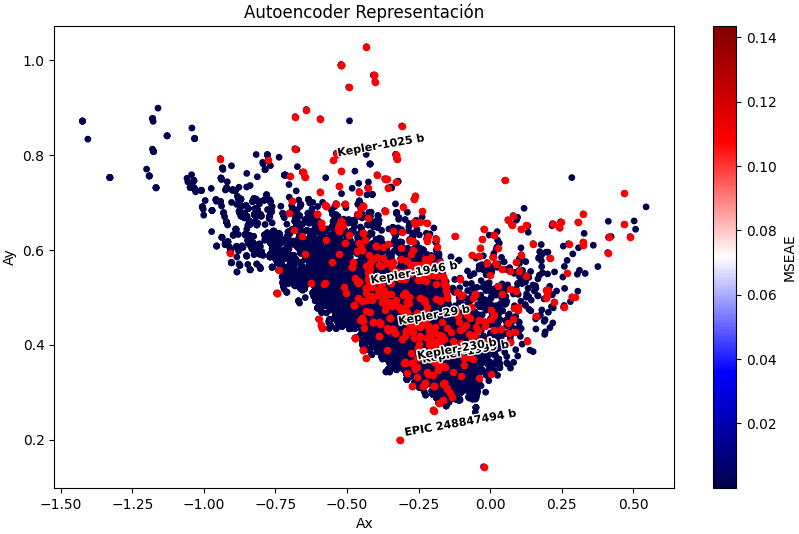
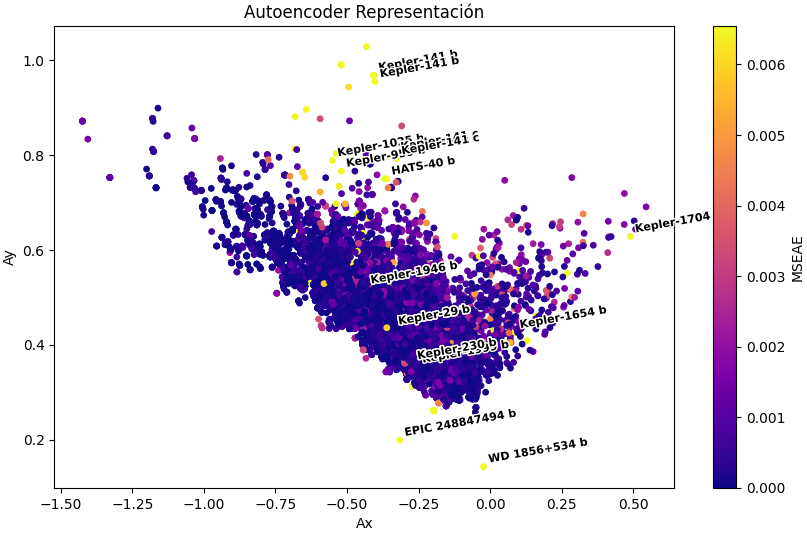
Se agregan descripciones a los resultados, se crean figuras sobre los resultados generales.

diff --git a/DeteccionAnomalias_SistemasPlanetarios/Resultados.md b/DeteccionAnomalias_SistemasPlanetarios/Resultados.md
@@ -2,68 +2,103 @@
 
 # Detección de anomalías de sistemas planetarios
 
-¡Hola! Bienvenido a mi portafolio de proyectos. En este espacio encontrarás algunos trabajos que he realizado en materias relacionadas a ciencias de datos, visión computacional, aprendizaje automático, entre otros.
 
 ---
 
 - [Detección de anomalías de sistemas planetarios](#detección-de-anomalías-de-sistemas-planetarios)
+  - [Introducción](#introducción)
   - [Preprocesamiento](#preprocesamiento)
   - [Análisis exploratorio](#análisis-exploratorio)
-    - [Histogramas principales](#histogramas-principales)
-    - [Histogramas específicos](#histogramas-específicos)
+    - [Histogramas](#histogramas)
     - [Gráficas de dispersión](#gráficas-de-dispersión)
   - [Selección de parámetros](#selección-de-parámetros)
     - [IF y LOF](#if-y-lof)
     - [Autodecodificador](#autodecodificador)
   - [Resultados](#resultados)
     - [Autodecodificador](#autodecodificador-1)
+    - [IF](#if)
+    - [LOF](#lof)
+    - [Anomalías detectadas](#anomalías-detectadas)
   - [Conclusiones](#conclusiones)
 
 ---
 
+## Introducción
+Se importan el conjunto de datos proveniente de [https://exoplanetarchive.ipac.caltech.edu/docs/data.html ](https://exoplanetarchive.ipac.caltech.edu/docs/data.html). En este trabajo se realizará una detección de anomalías en las mediciones de los planetas mediante algoritmos de aprendizaje automático, entre los cuales se encuentran: 
+
+1. Isolation Forest (IF):
+2. Local Outlier Factor (LOF):
+3. Autodecodificadores: 
+
+
+
+
+
+
 ## Preprocesamiento
+
+En dicha liga nos dirigimos a "planetary systems" y se filtran aquellos datos que no cuenten con información de: 
+
+1. Periodo orbital (pl_orbper)
+2. Radio planetario (pl_rade)
+3. Excentricidad (pl_orbeccen)
+4. Temperatura en equilibrio (pl_eqt)
+5. Masa estelar (st_mass)
+6. Gravedad estelar en superficie (st_logg)
+7. Distancia a la estrella (sy_dist)
+
+Se eliminan aquellas columnas que cuenten con valores nulos y se aplican normalización a los datos para evitar que alguna variable sea dominante respecto a las demás debido a las diferentes escalas. Después de todas estas consideraciones nuestro conjunto de datos consta de 14,037 filas y 7 columnas ya antes descritas. 
+
 
 ## Análisis exploratorio
 
-### Histogramas principales
+### Histogramas
+
+Para empezar a trabajar se realizan histogramas de cada una de las variables. En lo que respecta a la masa estelar, gravedad estelar en superficie y distancia a la estrella se notan distribuciones semejantes a la normal, o en dado caso con un cierto sesgo a la izquierda. 
 
 | ![](Imagenes/Histogramas/histograma_st_mass.png) | ![](Imagenes/Histogramas/histograma_st_logg.png) |
 | ------------------------------------------------ | ------------------------------------------------ |
-| (a)                                              | (b)                                              |
+| (a)  Masa estelar                                            | (b) Gravedad estelar en superficie                                              |
 
 | ![](Imagenes/Histogramas/histograma_pl_eqt.png) | ![](Imagenes/Histogramas/histograma_sy_dist.png) |
 | ----------------------------------------------- | ------------------------------------------------ |
-| (c)                                             | (d)                                              |
+| (c) Temperatura de equilibrio                                          | (d) Distancia a la estrella                                            |
 
 ---
 
-Las siguientes 3 figuras muestran una distribución rara que se revisará más a detalle.
+Por otro lado, en las siguientes figuras se muestran el resto de las variables, donde se nota claramente que hay exoplanetas que se alejan mucho del promedio, ya que cuentan con valores significativamente mayores si los comparas con el resto de los datos. A continuación se realizarán gráficos de dispersión para ver mas a detalle estas diferencias. 
 
-### Histogramas específicos
+
 
 | ![](Imagenes/Histogramas/histograma_pl_orbeccen.png) | ![](Imagenes/Histogramas/histograma_pl_orbper.png) |
 | ---------------------------------------------------- | -------------------------------------------------- |
-| (a)                                                  | (b)                                                |
+| (a) Excentricidad                                          | (b)Periodo orbital                                           |
 
 |   | ![](Imagenes/Histogramas/histograma_pl_rade.png) |   |
 | - | ------------------------------------------------ | - |
-|   | (c)                                              |   |
+|   | (c) Radio planetario                                         |   |
 
 ---
 
 ### Gráficas de dispersión
+Para tener mejor visualización de los variables restantes se opta por usar gráficas de dispersión. En ella los índices se muestran sobre el eje x mientras que en las abscisas indicamos el valor de la variable a utilizar. Seleccionamos un umbral donde se ubiquen el 95% de los datos y a partir de ellos iremos identificando exoplanetas fuera de lo común. 
+
+
 
 | ![](Imagenes/Dispersion/dispersion_pl_orbper.png_general.png) | ![](Imagenes/Dispersion/dispersion_pl_orbper.png) |
 | ------------------------------------------------------------- | ------------------------------------------------- |
-| (a)                                                           | (b)                                               |
+| (a) Periodo Orbital                                                     | (b)  Explanetas fuera del umbral                                            |
 
 | ![](Imagenes/Dispersion/dispersion_pl_rade.png_general.png) | ![](Imagenes/Dispersion/dispersion_pl_rade.png) |
 | ----------------------------------------------------------- | ----------------------------------------------- |
-| (c)                                                         | (d)                                             |
+| (c) Radio Planetario                                                    | (d) Exoplanetas fuera del umbral                                          |
 
 | ![](Imagenes/Dispersion/dispersion_pl_orbeccen.png_general.png) | ![](Imagenes/Dispersion/dispersion_pl_orbeccen.png) |
 | --------------------------------------------------------------- | --------------------------------------------------- |
-| (e)                                                             | (f)                                                 |
+| (e)   
+Excentrecidad                                                          | (f) Exoplanteas fuera del umbral                                                |
+
+En lo que respecta al periodo orbital se muestra que el exoplaneta EPIC 248847494 b tiene el valor más alto registrado, consultando el dataset corresponde a un periodo orbital de 10 años. Esto resulta relevante debido a que los métodos de observación requieren que el exoplaneta realice varios giros a la orbita para ser detectado, por lo que periodos largos necesitarían un mayor tiempo de seguimiento. 
 
 ---
 
@@ -77,6 +112,7 @@ Para detectar las anomalías se decide trabajar con los algoritmos Isolation For
 | -------------------------------------------------------- | ---------------------------------------------------------- |
 | (a)                                                      | (b)                                                        |
 
+
 ---
 
 ### Autodecodificador
@@ -88,7 +124,7 @@ Se usa MSE como función de pérdida. El espacio latente lo podemos emplear para
 * 100 épocas y un tamaño de batch de 32.
 
 <p align="center">
-  <img src="Imagenes/SeleccionParametros/Autoencoder.png" width="50%">
+  <img src="Imagenes/SeleccionParametros/Autoencoder.jpg" width="50%">
 </p>
 
 ---
@@ -112,4 +148,43 @@ EPIC 248847494 b aparece nuevamente.
 
 ---
 
+### IF
+| ![](Imagenes/ReduccionDimensional/Autoencoder_Test_scoreIF.png) | ![](Imagenes/ReduccionDimensional/PCA_Test_scoreIF.png) |
+| ------------------------------------------------------------- | ----------------------------------------------------------- |
+| (a)                                                           | (b)                                                         |
+
+
+### LOF
+
+| ![](Imagenes/ReduccionDimensional/Autoencoder_Test_scoreLOF.png) | ![](Imagenes/ReduccionDimensional/PCA_Test_scoreLOF.png) |
+| ------------------------------------------------------------- | ----------------------------------------------------------- |
+| (a)                                                           | (b)                                                         |
+
+
+### Anomalías detectadas
+
+A continuación se muestra una gráfica de barras con el conteo de las anomalias por cada método empleado. Podemos observar que IF fue el sensible, mientras que el menor conteo tuvo fue LOF. El autodecodificador se quedo en un rango intermedio. 
+
+<p align="center">
+  <img src="Imagenes/ReduccionDimensional/AnomaliasDetectadas.png" width="50%">
+</p>
+
+Los 3 métodos detectaron tuvieron coincidencia en 79 planetas, entre los cuales se encuentran: Kepler-39 b, KELT-9 b, EPIC 248847494 b, KIC 9663113 b,HD 224018 d, Kepler-141 c, entre otros. A continuación se muestran las anomalias comunes de los 3 métodos represetnados en los espacios bidimensionales de PCA y el autodecodificador. 
+
+| ![](Imagenes/ReduccionDimensional/PCA_Comunes.png) | ![](Imagenes/ReduccionDimensional/Autoencoder_Comunes.png) |
+| ------------------------------------------------------------- | ----------------------------------------------------------- |
+| (a)                                                           | (b)                                                         |
+
 ## Conclusiones
+Los análisis exploratorios nos pueden ayudar a darnos una idea si algún
+dato se encuentra fuera de lo común.
+• Se pueden emplear los autocodificadores para detectar anomalías si nos
+enfocamos a analizar que tan bien se reconstruyen los datos. Mayores
+errores podría indicarnos la presencia de un dato extraño.
+• Escoger la arquitectura lleva su reto, ya que no parece existir una “receta”
+que nos indique como armar un modelo. Se recomienda primero revisar en la
+literatura si existen redes empleadas para el fenómeno que se este
+analizando y no empezar desde cero.
+• Los algoritmos de reducción de dimensionalidad parecen ser muy atractivos
+para representar datos pero siempre hay que tener en consideración que la
+salida de estos son una “sombra” de la realidad.
